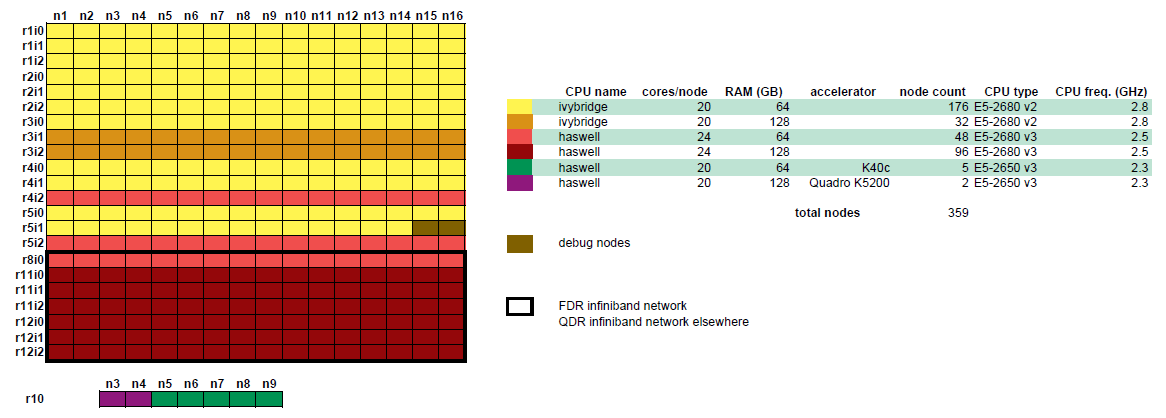
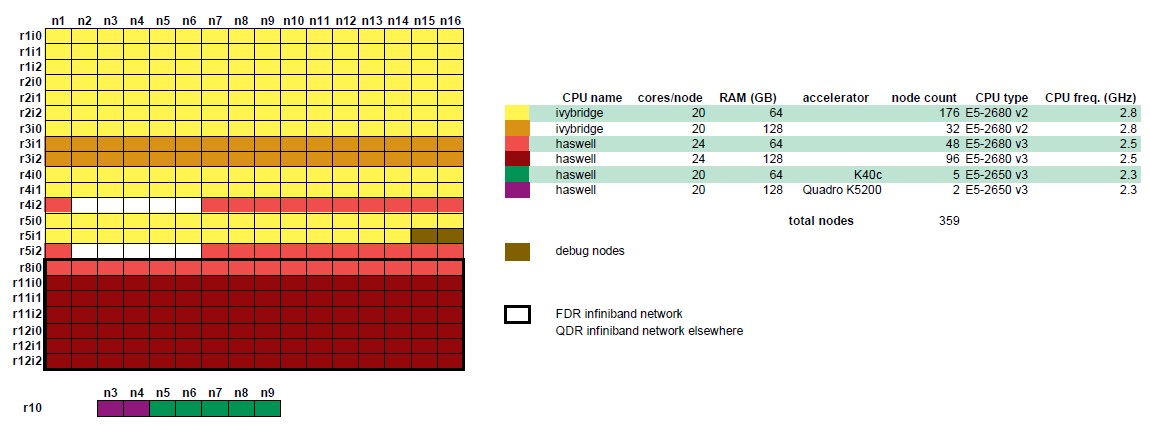
Remove CentOS 7 nodes from thinking hardware info

diff --git a/source/leuven/tier2_hardware/thinking_hardware.rst b/source/leuven/tier2_hardware/thinking_hardware.rst
@@ -36,7 +36,7 @@ Hardware details
     - 64 GB RAM
     - feature ``haswell``
 
-- 96 haswell nodes
+- 86 haswell nodes
 
     - 2 Xeon E5-2680 v3 CPUs\@2.5 GHz, 12 cores each
     - 128 GB RAM
